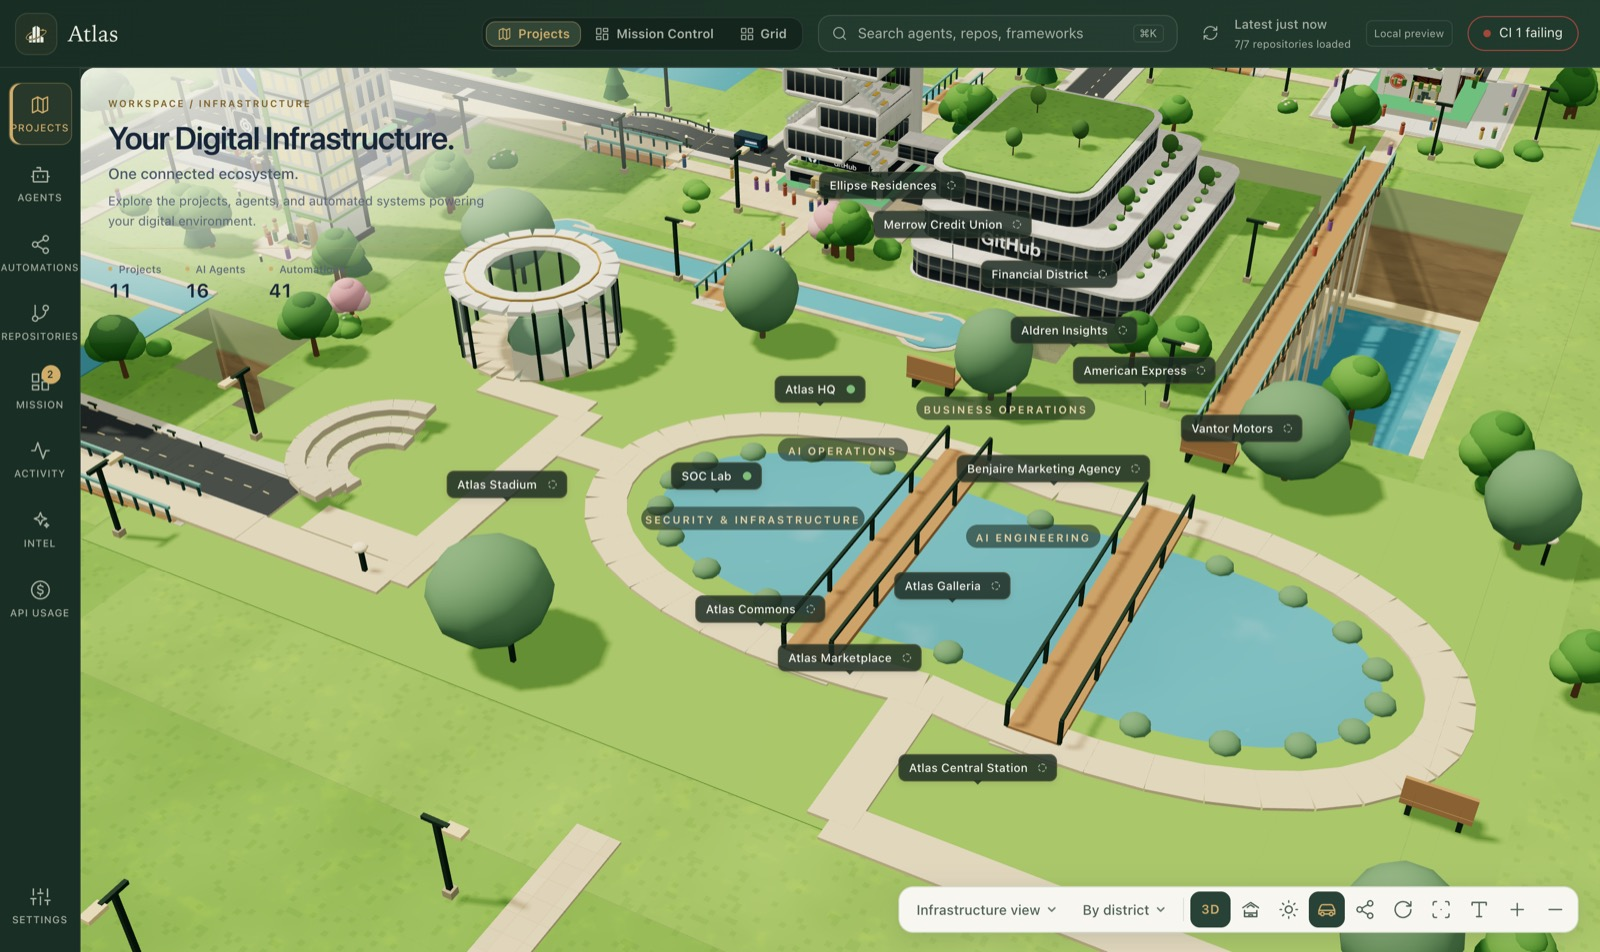
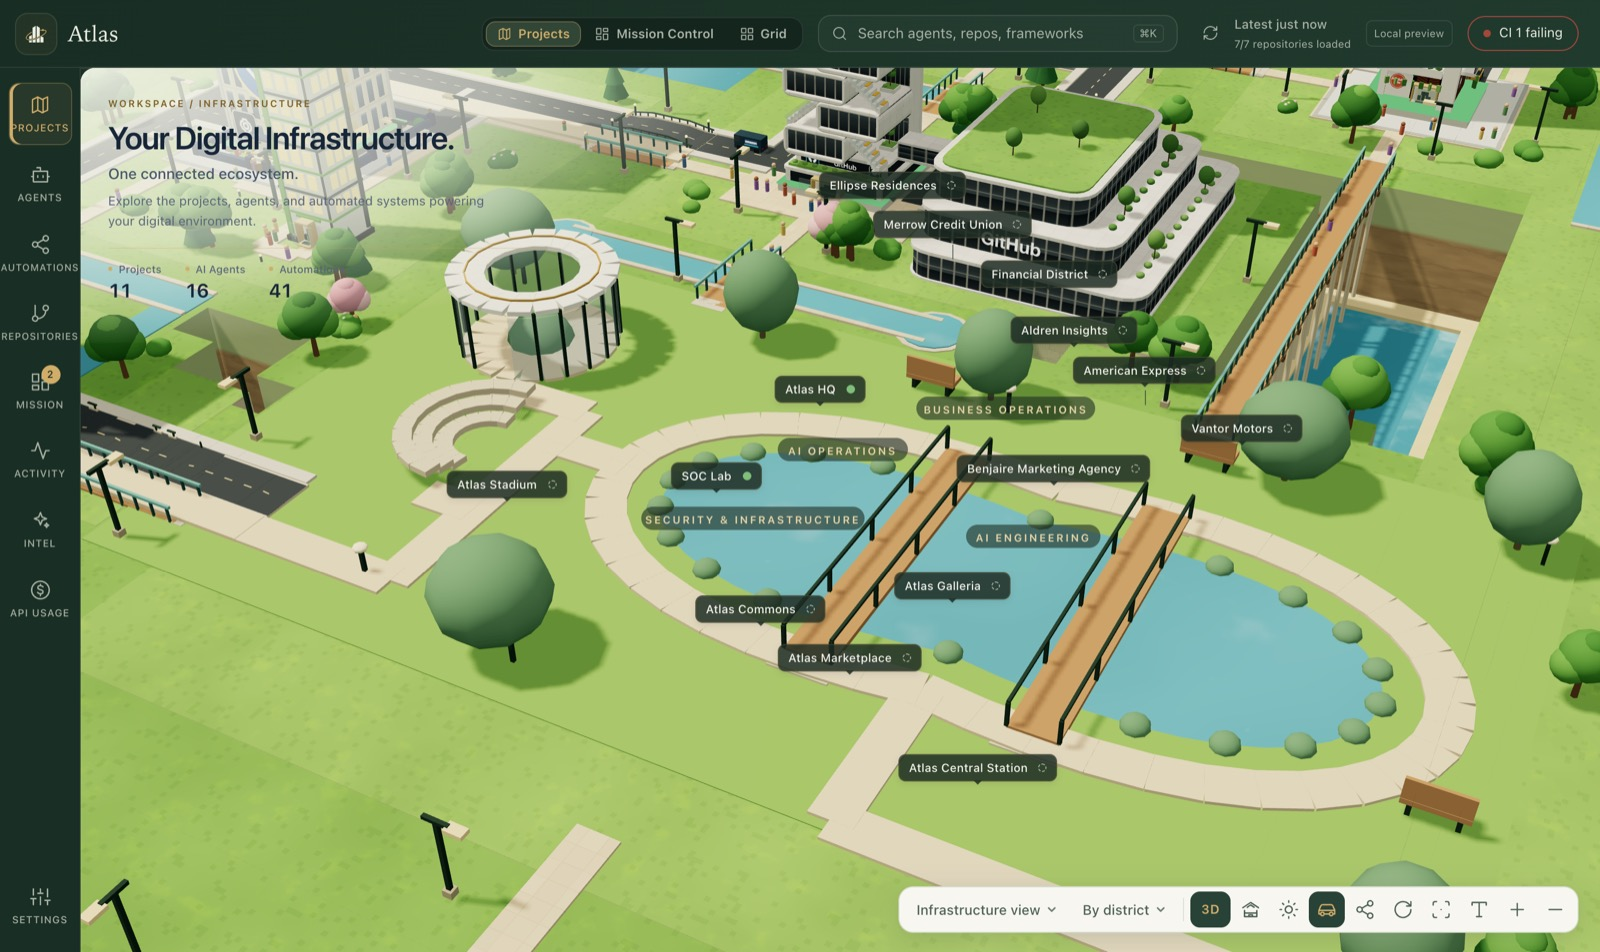
Set amphitheater back from street toward Commons center

Changed region(s): [[0.1562, 0.396, 0.3438, 0.6092]]

diff --git a/src/views/map3d/commonsPlan.ts b/src/views/map3d/commonsPlan.ts
@@ -16,7 +16,7 @@ export function planCommons(s:Pick<Scene3D,'mall'|'towers'|'paving'|'transportCo
  const outline=(grow:number)=>Array.from({length:49},(_,i):Pt=>{const a=i%48/48*Math.PI*2;return [cx+(rx+grow)*Math.cos(a),cz+(rz*(.65+.35*Math.abs(Math.cos(a)))+grow)*Math.sin(a)];});
  const pond=outline(0),loop=outline(.65);
  const bridges:[Pt,Pt][]=[10,14].map(i=>[loop[i],loop[48-i]]);
- const pavilion:Pt=[x+2.1,z+2.1],amphitheater:Pt=[x+2.1,z+d*.67];
+ const pavilion:Pt=[x+2.1,z+2.1],amphitheater:Pt=[x+2.9,z+d*.55];
  // Join the existing Service Desk approach, and the Marketplace's already paved promenade.
  const service:Pt=s.transportConnections.find(c=>c.id==='skyline-airport')?.walk[0]??[desk.x,desk.z+desk.size/2+1.2],marketplace:Pt=[mall.plaza.x+.1,mall.plaza.z+.425],join:Pt=[x+3.6,cz];
  const paths:Pt[][]=[loop,[loop[24],join,[join[0],service[1]],service],[loop[12],[loop[12][0],z+d-.1],[marketplace[0],z+d-.1],marketplace],[[pavilion[0],pavilion[1]+1.15],[join[0],pavilion[1]+1.15],join],[[amphitheater[0],amphitheater[1]+1.15],[join[0],amphitheater[1]+1.15],[join[0],service[1]]]];

diff --git a/src/views/map3d/commonsPlan.test.ts b/src/views/map3d/commonsPlan.test.ts
@@ -24,6 +24,11 @@ describe('Atlas Commons',()=>{
   expect(p.paths.some(path=>path.some(q=>q[0]===p.access.marketplace[0]&&q[1]===p.access.marketplace[1]))).toBe(true);
   expect(scene.transportConnections.find(c=>c.id==='skyline-airport')!.walk[0]).toEqual(p.access.service);
  });
+ it('sets the amphitheater back from the street toward the park center',()=>{
+  expect(p.amphitheater[0]-p.rect.x).toBeGreaterThan(2.8);expect(p.rect.z+p.rect.d-p.amphitheater[1]).toBeGreaterThan(3);
+  expect(Math.hypot(p.amphitheater[0]-p.pavilion[0],p.amphitheater[1]-p.pavilion[1])).toBeGreaterThan(2.2);
+  expect(inside(p.amphitheater,p.pond)).toBe(false);
+ });
  it('is deterministic and preserves shared access data',()=>{expect(planCommons(scene)).toEqual(p);expect(scene.transportConnections.find(c=>c.id==='skyline-airport')!.walk[0]).toEqual(p.access.service);});
  it('omits the park when the available space or required neighbors are missing',()=>{
   expect(planCommons({...scene,mall:undefined})).toBeUndefined();

diff --git a/docs/atlas-commons/README.md b/docs/atlas-commons/README.md
@@ -1,6 +1,6 @@
 # Atlas Commons
 
-Static public park between Service Desk and Marketplace. Service Desk, Marketplace, Galleria and transportation stay in place. Sports courts are deferred to preserve open space. No agents, bookings, integrations or pavilion interior are activated.
+Static public park between Service Desk and Marketplace. Service Desk, Marketplace, Galleria and transportation stay in place. The amphitheater is set back toward the park center, clear of the street. Six park tests and the updated desktop selection check passed. Sports courts are deferred to preserve open space. No agents, bookings, integrations or pavilion interior are activated.
 
 The shared planner supplies the pond, walking loop, bridge landings, entrances, landscape and selection bounds. Existing scattered decorations inside the park are replaced by its planned landscaping.
 
